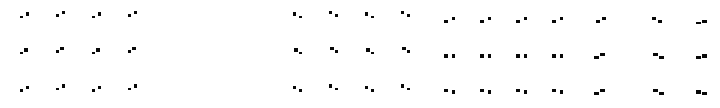
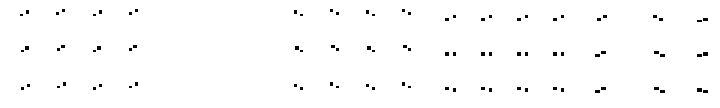
이재영 : 타일 이동 3차

diff --git a/API/Baba_Is_You/TileMap.cpp b/API/Baba_Is_You/TileMap.cpp
@@ -3,6 +3,7 @@
 
 #include <EngineBase/EngineString.h>
 
+
 ATileMap::ATileMap()
 {
 }
@@ -78,7 +79,7 @@ bool ATileMap::IsIndexOver(FIntPoint _Index)
 
 void ATileMap::SetTileIndex(std::string_view _Sprite, FIntPoint _Index, int _SpriteIndex, int _Order)
 {
-	SetTileIndex(_Sprite, _Index, { 0,0 }, TileSize, _SpriteIndex, _Order);
+	SetTileIndex(_Sprite, _Index, { 0, 0 }, TileSize, _SpriteIndex, _Order);
 }
 
 void ATileMap::SetTileIndex(std::string_view _Sprite, FIntPoint _Index, FVector2D _Pivot, FVector2D _SpriteScale, int _SpriteIndex, int _Order)
@@ -117,36 +118,48 @@ void ATileMap::SetTileIndex(std::string_view _Sprite, FIntPoint _Index, FVector2
 	AllTiles[_Index.Y][_Index.X].SpriteName = UpperName;
 }
 
-//FIntPoint ATileMap::FindTileIndex(std::string_view _Name)
-//{
-//	FIntPoint Index;
-//	std::string UpperName = UEngineString::ToUpper(_Name);
-//
-//	for (int x = 0; x < TileCount.X; ++x)
-//	{
-//		for (int y = 0; y < TileCount.Y; ++y)
-//		{
-//			if (AllTiles[y][x].SpriteName == UpperName)
-//			{
-//				Index = TileCount;
-//				break;
-//			}
-//
-//			continue;
-//		}
-//	}
-//
-//	return Index;
-//}
-
-void ATileMap::TileMove(FIntPoint _CurIndex, FIntPoint _MoveIndex)
+FIntPoint ATileMap::FindTileIndex(std::string_view _Name)
 {
-	FVector2D CurTileLocation = IndexToTileLocation(_CurIndex);
-	FVector2D NextTileLocation = IndexToTileLocation(_MoveIndex);
-	FVector2D SpriteLocation = AllTiles[_CurIndex.Y][_CurIndex.X].SpriteLocation;
-	SpriteLocation += NextTileLocation;
-	AllTiles[_CurIndex.Y][_CurIndex.X].SpriteRenderer->SetComponentLocation(SpriteLocation);
-	_CurIndex = LocationToIndex(SpriteLocation);
+	FIntPoint Index;
+	std::string UpperName = UEngineString::ToUpper(_Name);
+
+	for (int x = 0; x < TileCount.X; ++x)
+	{
+		for (int y = 0; y < TileCount.Y; ++y)
+		{
+			if (nullptr == AllTiles[y][x].SpriteRenderer)
+			{
+				continue;
+			}
+
+			if (AllTiles[y][x].SpriteRenderer->GetCurSpriteName() == UpperName)
+			{
+				Index.X = x;
+				Index.Y = y;
+				return Index;
+			}
+
+			continue;
+		}
+	}
+}
+
+FIntPoint ATileMap::TileMove(FIntPoint _CurIndex, FIntPoint _MoveIndex)
+{
+	FIntPoint NextIndex = _CurIndex + _MoveIndex;
+
+	USpriteRenderer* CurSprite = AllTiles[_CurIndex.Y][_CurIndex.X].SpriteRenderer;
+	USpriteRenderer* NextSprite = AllTiles[NextIndex.Y][NextIndex.X].SpriteRenderer;
+	
+	FVector2D Pos = IndexToTileLocation(NextIndex);
+	CurSprite->SetComponentLocation(Pos + TileSize.Half());
+
+	Sleep(200);
+
+	AllTiles[NextIndex.Y][NextIndex.X].SpriteRenderer = CurSprite;
+	AllTiles[_CurIndex.Y][_CurIndex.X].SpriteRenderer = NextSprite;
+	
+	return NextIndex;
 }
 
 Tile* ATileMap::GetTileRef(FVector2D _Location)

diff --git a/API/Baba_Is_You/TestGameMode.cpp b/API/Baba_Is_You/TestGameMode.cpp
@@ -27,7 +27,7 @@ void ATestGameMode::BeginPlay()
 
 	{
 		TextTileMap = GetWorld()->SpawnActor<ATileMap>();
-		TextTileMap->Create({ 33, 18 }, { 36, 36 });
+		TextTileMap->Create({ 34, 19 }, { 36, 36 });
 		TextTileMap->SetTileIndex("BabaText.png", { 6, 3 }, 1, static_cast<int>(ERenderOrder::TILE));
 		TextTileMap->SetTileIndex("Is.png", { 7, 3 }, 1, static_cast<int>(ERenderOrder::TILE));
 		TextTileMap->SetTileIndex("You.png", { 8, 3 }, 1, static_cast<int>(ERenderOrder::TILE));
@@ -49,8 +49,8 @@ void ATestGameMode::BeginPlay()
 
 	{
 		ObjectTileMap = GetWorld()->SpawnActor<ATileMap>();
-		ObjectTileMap->Create({ 33, 18 }, { 36, 36 });
-		ObjectTileMap->SetTileIndex("BabaObject.png", { 3, 3 }, 0, static_cast<int>(ERenderOrder::TILE));
+		ObjectTileMap->Create({ 34, 19 }, { 36, 36 });
+		ObjectTileMap->SetTileIndex("BabaObject.png", { 3, 3 }, 0, static_cast<int>(ERenderOrder::PLAYER));
 		ObjectTileMap->SetTileIndex("FlagObject.png", { 6, 14 }, 0, static_cast<int>(ERenderOrder::TILE));
 		ObjectTileMap->SetTileIndex("RockObject.png", { 10, 14 }, 0, static_cast<int>(ERenderOrder::TILE));
 		ObjectTileMap->SetTileIndex("WallObject.png", { 14, 14 }, 0, static_cast<int>(ERenderOrder::TILE));
@@ -59,31 +59,34 @@ void ATestGameMode::BeginPlay()
 		ObjectTileMap->SetTileIndex("LavaObject.png", { 26, 14 }, 0, static_cast<int>(ERenderOrder::TILE));
 		ObjectTileMap->SetTileIndex("WaterObject.png", { 30, 14 }, 0, static_cast<int>(ERenderOrder::TILE));
 	}
+
+	BabaIndex = { 3, 3 };
 }
 
 void ATestGameMode::Tick(float _DeltaTime)
 {
 	Super::Tick(_DeltaTime);
-	
+
+	FIntPoint TileIndex = ObjectTileMap->FindTileIndex("WaterObject.png");
+
 	if (true == UEngineInput::GetInst().IsDown('W'))
 	{
-
-		ObjectTileMap->TileMove({ 3, 3 }, { 0, -1 }) ;
+		BabaIndex = ObjectTileMap->TileMove(TileIndex, { 0, -1 }) ;
 	}
 	
 	if (true == UEngineInput::GetInst().IsDown('A'))
 	{
-		ObjectTileMap->TileMove({ 3, 3 }, { -1, 0 });
+		BabaIndex = ObjectTileMap->TileMove(TileIndex, { -1, 0 });
 	}
 	
 	if (true == UEngineInput::GetInst().IsDown('S'))
 	{
-		ObjectTileMap->TileMove({ 3, 3 }, { 0, 1 });
+		BabaIndex = ObjectTileMap->TileMove(TileIndex, { 0, 1 });
 	}
 
 	if (true == UEngineInput::GetInst().IsDown('D'))
 	{
-		ObjectTileMap->TileMove({ 3, 3 }, { 1, 0 });
+		BabaIndex = ObjectTileMap->TileMove(TileIndex, { 1, 0 });
 	}
 
 	//if (true == UEngineInput::GetInst().IsPress('N'))

diff --git a/API/Baba_Is_You/TileMap.h b/API/Baba_Is_You/TileMap.h
@@ -13,9 +13,10 @@ public:
 
 	FVector2D Scale;
 	FVector2D Pivot;
-	int SpriteIndex;
 	FVector2D SpriteLocation;
+
 	std::string_view SpriteName;
+	int SpriteIndex;
 
 	void Serialize(UEngineSerializer& _Ser)
 	{
@@ -62,9 +63,9 @@ public:
 	void SetTileIndex(std::string_view _Sprite, FIntPoint _Index, int _SpriteIndex, int _Order);
 	void SetTileIndex(std::string_view _Sprite, FIntPoint _Index, FVector2D _Pivot, FVector2D _SpriteScale, int _SpriteIndex, int _Order);
 
-	//FIntPoint FindTileIndex(std::string_view _Name);
+	FIntPoint FindTileIndex(std::string_view _Name);
 
-	void TileMove(FIntPoint _CurIndex, FIntPoint _NextIndex);
+	FIntPoint TileMove(FIntPoint _CurIndex, FIntPoint _MoveIndex);
 
 	Tile* GetTileRef(FIntPoint _Index);
 	Tile* GetTileRef(FVector2D _Location);

diff --git a/API/Baba_Is_You/TestGameMode.h b/API/Baba_Is_You/TestGameMode.h
@@ -24,6 +24,9 @@ public:
 protected:
 
 	void Tick(float _DeltaTime) override;
+
+	FIntPoint BabaIndex;
+
 private:
 	ATileMap* TextTileMap = nullptr;
 	ATileMap* ObjectTileMap = nullptr;

diff --git a/API/Baba_Is_You/ContentsEnum.h b/API/Baba_Is_You/ContentsEnum.h
@@ -8,6 +8,6 @@ enum class ERenderOrder
 	STAGEBG = -50,
 	WORLDMAP = -20,
 	BUTTON = -10,
-	TILE = -1,
+	TILE = 10,
 	PLAYER = 1000,
 };
